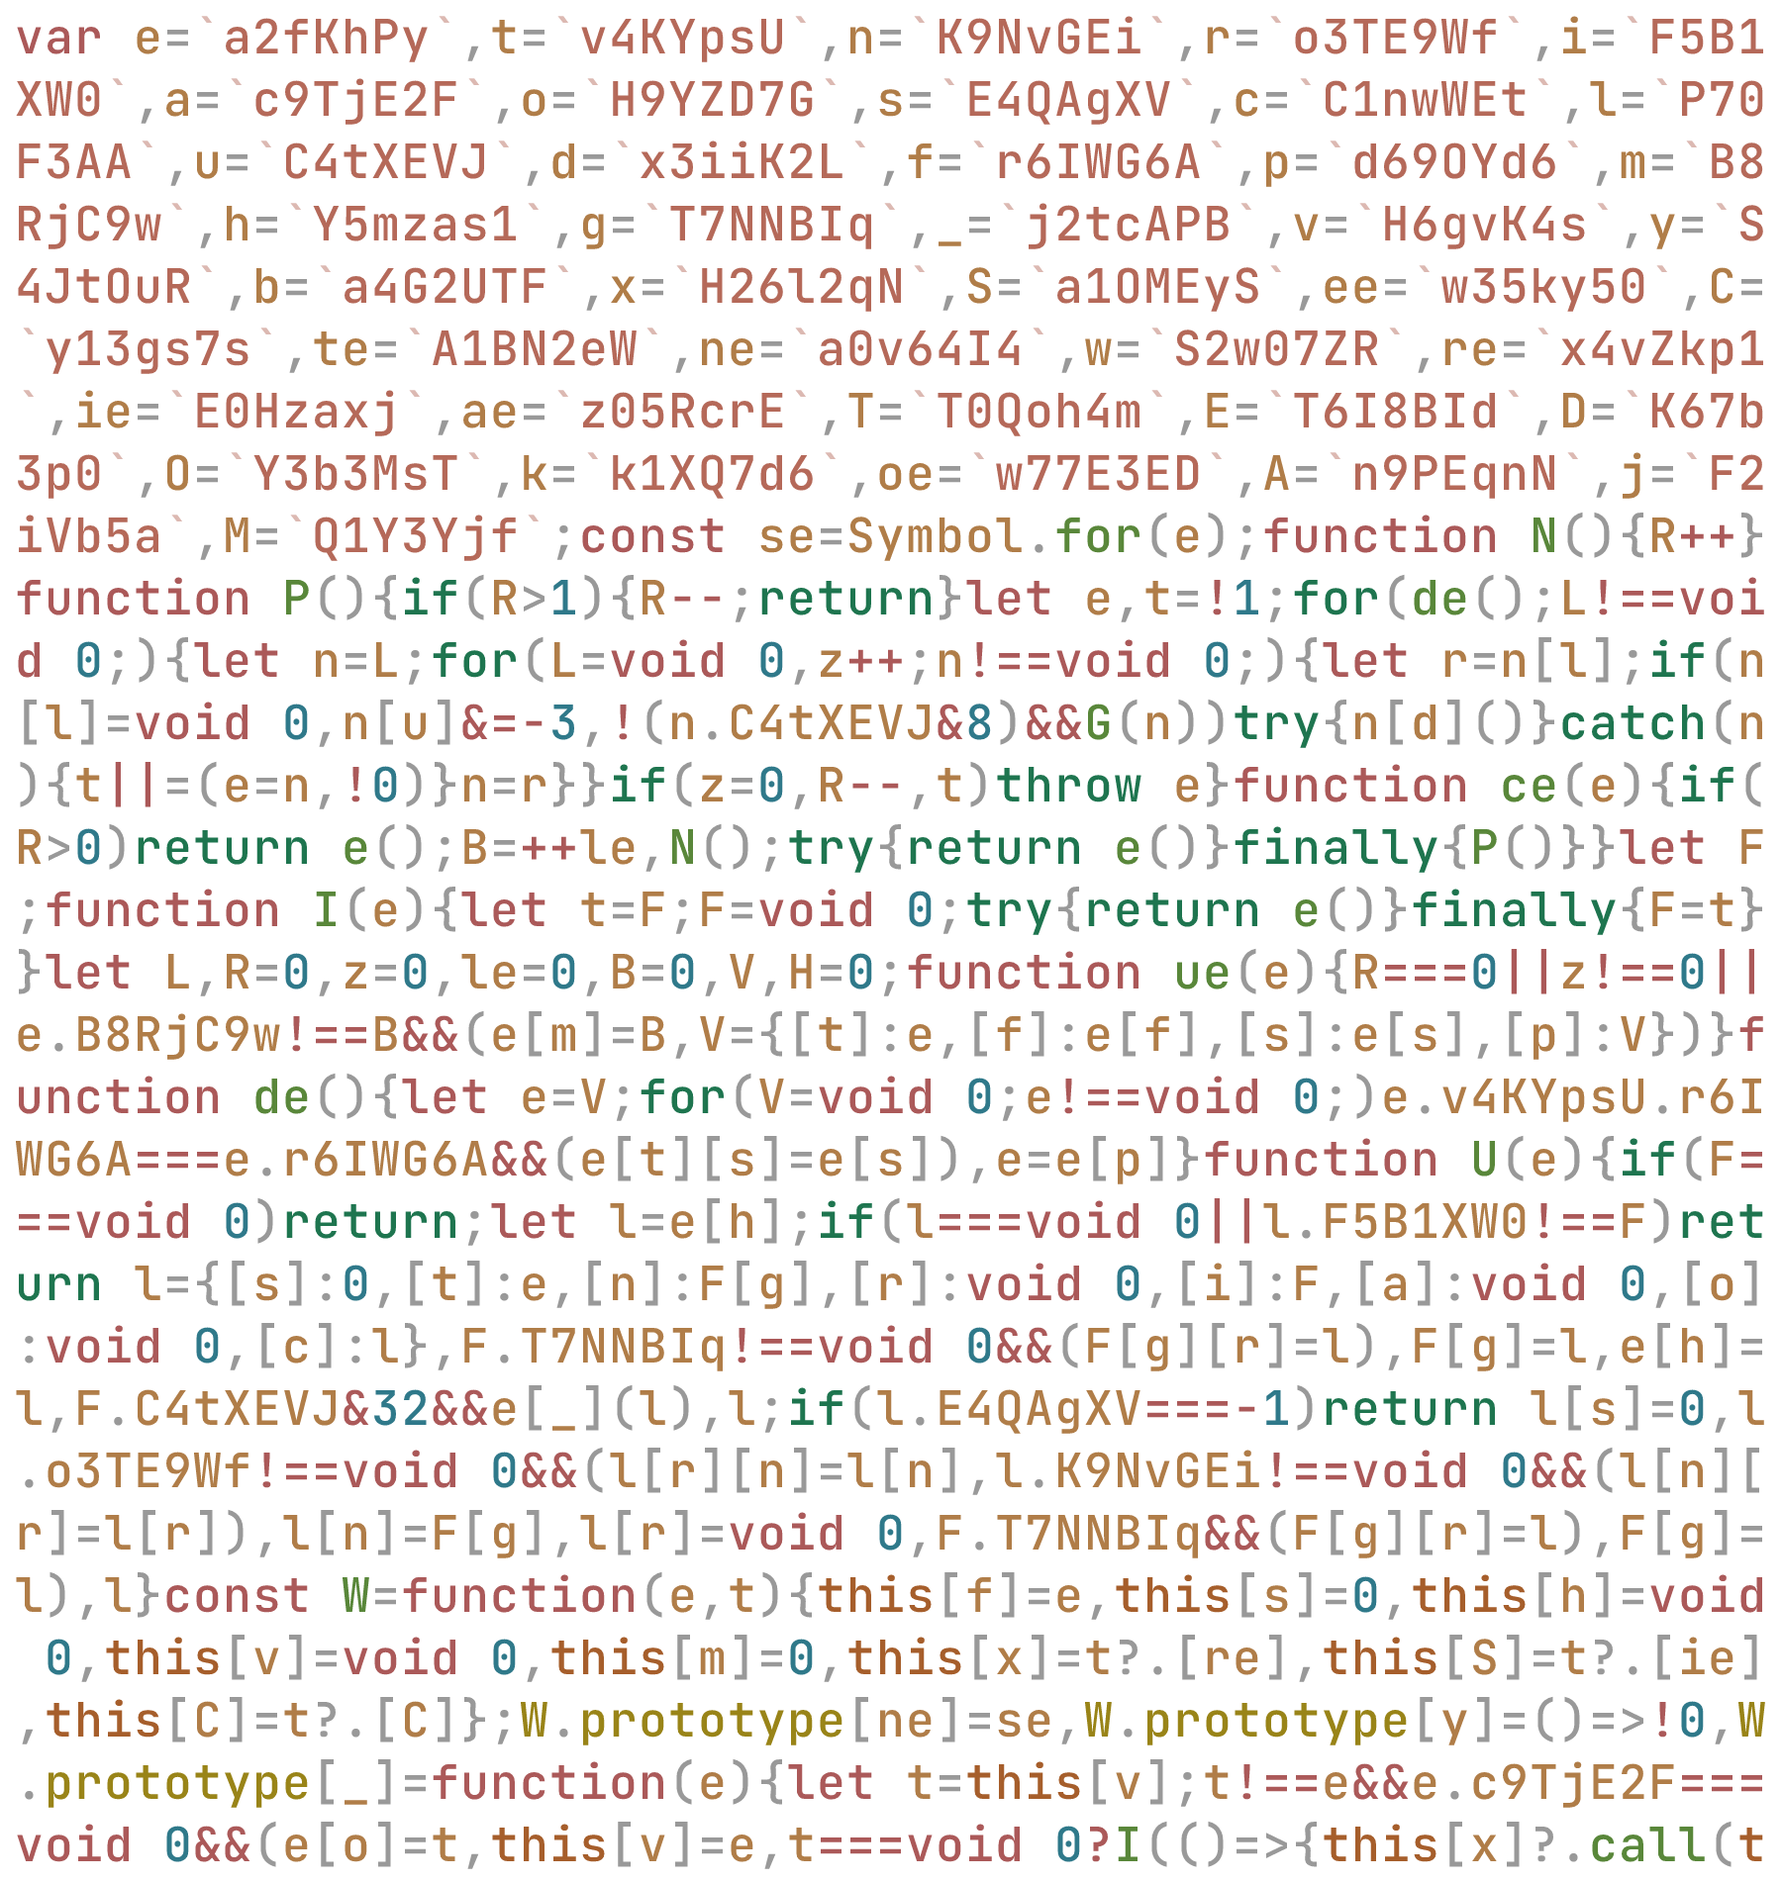
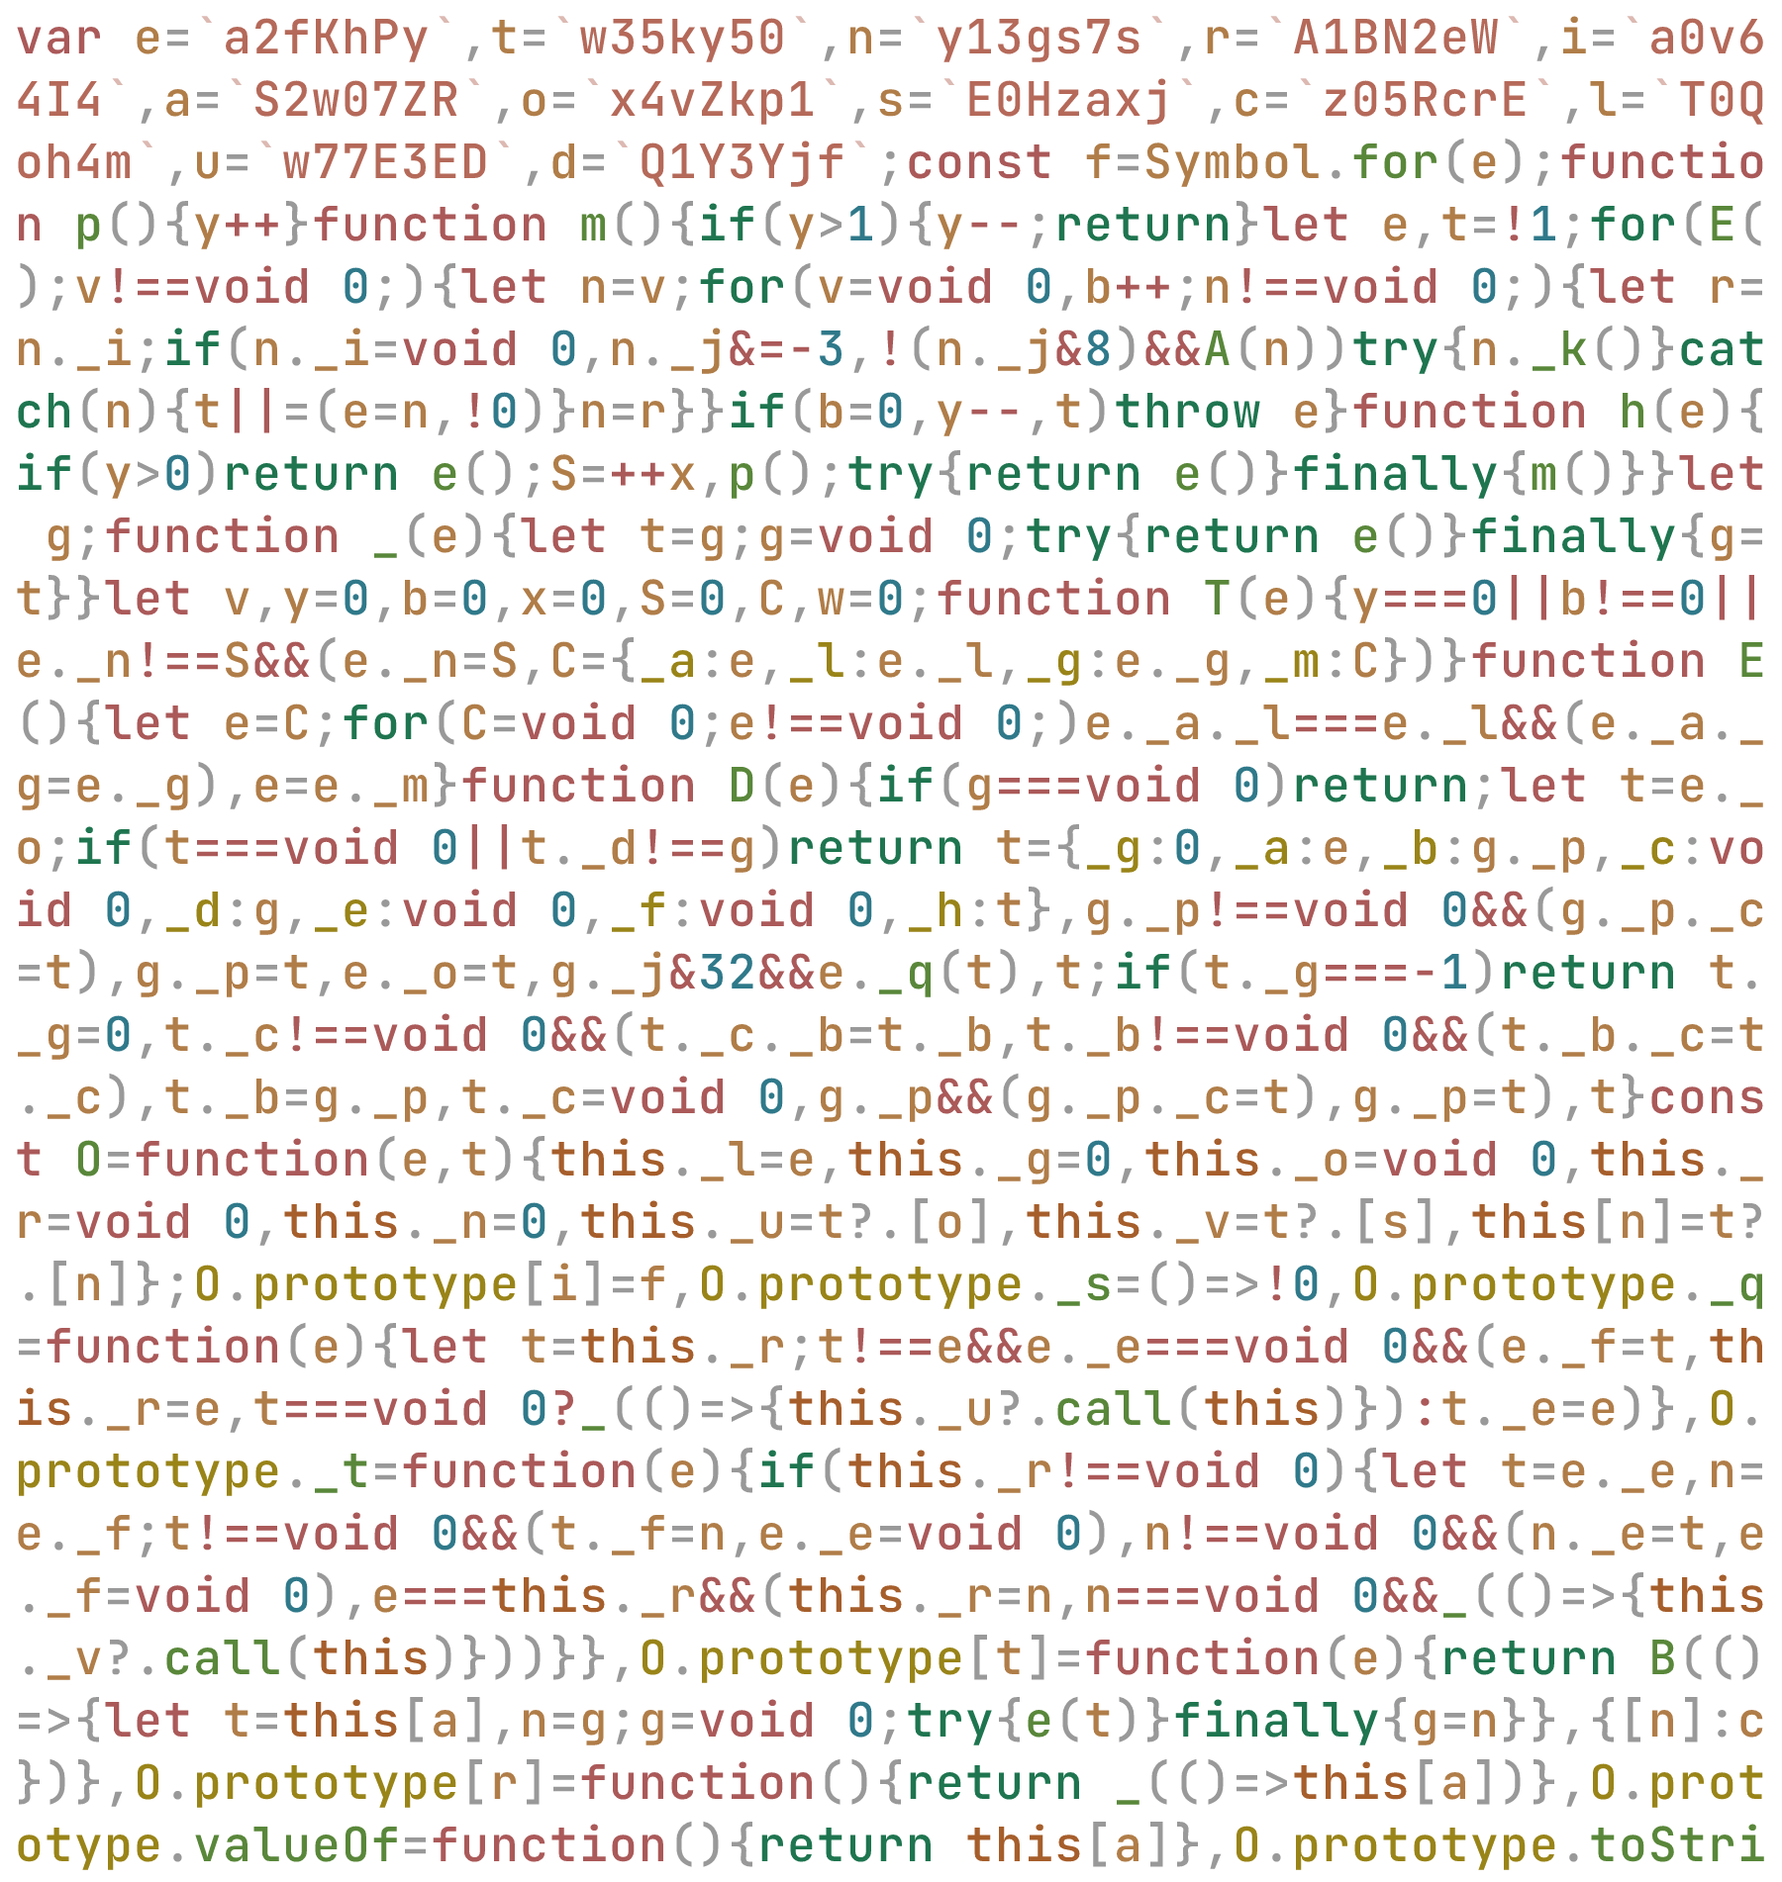
docs: update demo

Changed region(s): [[0.0, 0.0, 0.9956, 0.9926]]

diff --git a/demo/signals/dist_sample/keywordified.min.js b/demo/signals/dist_sample/keywordified.min.js
@@ -1,1 +1,1 @@
-var e=`a2fKhPy`,t=`v4KYpsU`,n=`K9NvGEi`,r=`o3TE9Wf`,i=`F5B1XW0`,a=`c9TjE2F`,o=`H9YZD7G`,s=`E4QAgXV`,c=`C1nwWEt`,l=`P70F3AA`,u=`C4tXEVJ`,d=`x3iiK2L`,f=`r6IWG6A`,p=`d69OYd6`,m=`B8RjC9w`,h=`Y5mzas1`,g=`T7NNBIq`,_=`j2tcAPB`,v=`H6gvK4s`,y=`S4JtOuR`,b=`a4G2UTF`,x=`H26l2qN`,S=`a1OMEyS`,ee=`w35ky50`,C=`y13gs7s`,te=`A1BN2eW`,ne=`a0v64I4`,w=`S2w07ZR`,re=`x4vZkp1`,ie=`E0Hzaxj`,ae=`z05RcrE`,T=`T0Qoh4m`,E=`T6I8BId`,D=`K67b3p0`,O=`Y3b3MsT`,k=`k1XQ7d6`,oe=`w77E3ED`,A=`n9PEqnN`,j=`F2iVb5a`,M=`Q1Y3Yjf`;const se=Symbol.for(e);function N(){R++}function P(){if(R>1){R--;return}let e,t=!1;for(de();L!==void 0;){let n=L;for(L=void 0,z++;n!==void 0;){let r=n[l];if(n[l]=void 0,n[u]&=-3,!(n.C4tXEVJ&8)&&G(n))try{n[d]()}catch(n){t||=(e=n,!0)}n=r}}if(z=0,R--,t)throw e}function ce(e){if(R>0)return e();B=++le,N();try{return e()}finally{P()}}let F;function I(e){let t=F;F=void 0;try{return e()}finally{F=t}}let L,R=0,z=0,le=0,B=0,V,H=0;function ue(e){R===0||z!==0||e.B8RjC9w!==B&&(e[m]=B,V={[t]:e,[f]:e[f],[s]:e[s],[p]:V})}function de(){let e=V;for(V=void 0;e!==void 0;)e.v4KYpsU.r6IWG6A===e.r6IWG6A&&(e[t][s]=e[s]),e=e[p]}function U(e){if(F===void 0)return;let l=e[h];if(l===void 0||l.F5B1XW0!==F)return l={[s]:0,[t]:e,[n]:F[g],[r]:void 0,[i]:F,[a]:void 0,[o]:void 0,[c]:l},F.T7NNBIq!==void 0&&(F[g][r]=l),F[g]=l,e[h]=l,F.C4tXEVJ&32&&e[_](l),l;if(l.E4QAgXV===-1)return l[s]=0,l.o3TE9Wf!==void 0&&(l[r][n]=l[n],l.K9NvGEi!==void 0&&(l[n][r]=l[r]),l[n]=F[g],l[r]=void 0,F.T7NNBIq&&(F[g][r]=l),F[g]=l),l}const W=function(e,t){this[f]=e,this[s]=0,this[h]=void 0,this[v]=void 0,this[m]=0,this[x]=t?.[re],this[S]=t?.[ie],this[C]=t?.[C]};W.prototype[ne]=se,W.prototype[y]=()=>!0,W.prototype[_]=function(e){let t=this[v];t!==e&&e.c9TjE2F===void 0&&(e[o]=t,this[v]=e,t===void 0?I(()=>{this[x]?.call(this)}):t[a]=e)},W.prototype[b]=function(e){if(this.H6gvK4s!==void 0){let t=e[a],n=e[o];t!==void 0&&(t[o]=n,e[a]=void 0),n!==void 0&&(n[a]=t,e[o]=void 0),e===this.H6gvK4s&&(this[v]=n,n===void 0&&I(()=>{this[S]?.call(this)}))}},W.prototype[ee]=function(e){return he(()=>{let t=this[w],n=F;F=void 0;try{e(t)}finally{F=n}},{[C]:ae})},W.prototype[te]=function(){return I(()=>this[w])},W.prototype.valueOf=function(){return this[w]},W.prototype.toString=function(){return this[w]+``},W.prototype.toJSON=function(){return this[w]},Object.defineProperty(W.prototype,w,{get(){let e=U(this);return e!==void 0&&(e[s]=this[s]),this[f]},set(e){if(e!==this.r6IWG6A){if(z>100)throw Error(T);ue(this),this[f]=e,this[s]++,H++,N();try{for(let e=this[v];e!==void 0;e=e[o])e[i][E]()}finally{P()}}}});function fe(e,t){return new W(e,t)}function G(e){for(let t=e[g];t!==void 0;t=t[r])if(t.v4KYpsU.E4QAgXV!==t.E4QAgXV||!t.v4KYpsU.S4JtOuR()||t.v4KYpsU.E4QAgXV!==t.E4QAgXV)return!0;return!1}function K(e){for(let n=e[g];n!==void 0;n=n[r]){let r=n[t][h];if(r!==void 0&&(n[c]=r),n[t][h]=n,n[s]=-1,n.o3TE9Wf===void 0){e[g]=n;break}}}function q(e){let i=e[g],a;for(;i!==void 0;){let e=i[n];i.E4QAgXV===-1?(i[t][b](i),e!==void 0&&(e[r]=i[r]),i.o3TE9Wf!==void 0&&(i[r][n]=e)):a=i,i[t][h]=i[c],i.C1nwWEt!==void 0&&(i[c]=void 0),i=e}e[g]=a}const J=function(e,t){W.call(this,void 0),this[D]=e,this[g]=void 0,this[O]=H-1,this[u]=4,this[x]=t?.[re],this[S]=t?.[ie],this[C]=t?.[C]};J.prototype=new W,J.prototype[y]=function(){if(this[u]&=-3,this.C4tXEVJ&1)return!1;if((this.C4tXEVJ&36)==32||(this[u]&=-5,this.Y3b3MsT===H))return!0;if(this[O]=H,this[u]|=1,this.E4QAgXV>0&&!G(this))return this[u]&=-2,!0;let e=F;try{K(this),F=this;let e=this[D]();(this.C4tXEVJ&16||this.r6IWG6A!==e||this.E4QAgXV===0)&&(this[f]=e,this[u]&=-17,this[s]++)}catch(e){this[f]=e,this[u]|=16,this[s]++}return F=e,q(this),this[u]&=-2,!0},J.prototype[_]=function(e){if(this.H6gvK4s===void 0){this[u]|=36;for(let e=this[g];e!==void 0;e=e[r])e[t][_](e)}W.prototype[_].call(this,e)},J.prototype[b]=function(e){if(this.H6gvK4s!==void 0&&(W.prototype[b].call(this,e),this.H6gvK4s===void 0)){this[u]&=-33;for(let e=this[g];e!==void 0;e=e[r])e[t][b](e)}},J.prototype[E]=function(){if(!(this.C4tXEVJ&2)){this[u]|=6;for(let e=this[v];e!==void 0;e=e[o])e[i][E]()}},Object.defineProperty(J.prototype,w,{get(){if(this.C4tXEVJ&1)throw Error(T);let e=U(this);if(this[y](),e!==void 0&&(e[s]=this[s]),this.C4tXEVJ&16)throw this[f];return this[f]}});function pe(e,t){return new J(e,t)}function Y(e){let t=e[k];if(e[k]=void 0,typeof t==`function`){N();let n=F;F=void 0;try{t()}catch(t){throw e[u]&=-2,e[u]|=8,X(e),t}finally{F=n,P()}}}function X(e){for(let n=e[g];n!==void 0;n=n[r])n[t][b](n);e[D]=void 0,e[g]=void 0,Y(e)}function me(e){if(F!==this)throw Error(oe);q(this),F=e,this[u]&=-2,this.C4tXEVJ&8&&X(this),P()}let Z;const Q=function(e,t){this[D]=e,this[k]=void 0,this[g]=void 0,this[l]=void 0,this[u]=32,this[C]=t?.[C],Z&&Z.push(this)};Q.prototype[d]=function(){let e=this[A]();try{if(this.C4tXEVJ&8||this.K67b3p0===void 0)return;let e=this[D]();typeof e==`function`&&(this[k]=e)}finally{e()}},Q.prototype[A]=function(){if(this.C4tXEVJ&1)throw Error(T);this[u]|=1,this[u]&=-9,Y(this),K(this),N();let e=F;return F=this,me.bind(this,e)},Q.prototype[E]=function(){this.C4tXEVJ&2||(this[u]|=2,this[l]=L,L=this)},Q.prototype[j]=function(){this[u]|=8,this.C4tXEVJ&1||X(this)},Q.prototype[M]=function(){this[j]()};function he(e,t){let n=new Q(e,t);try{n[d]()}catch(e){throw n[j](),e}let r=n[j].bind(n);return Object.assign(r,{[Symbol.dispose]:r}),r}function $(e){return function(...t){return ce(()=>I(()=>e.apply(this,t)))}}function ge(){let e=Z;return Z=[],function(){let t=Z;return Z&&e&&(e=e.concat(Z)),Z=e,t}}const _e=e=>{let t=Reflect.ownKeys(e);for(let n=0;n<t.length;n++){let r=t[n],i=e[r];typeof i==`function`?e[r]=$(i):typeof i==`object`&&i&&!(`a0v64I4`in i)&&_e(i)}};function ve(e){return function(...t){let n,r,i=ge();try{r=e(...t)}catch(e){throw Z=void 0,e}finally{n=i()}return _e(r),r[Symbol.dispose]=$(function(){let e=n;if(e)for(let t=0;t<e.length;t++)e[t]?.[M]();n=void 0}),r}}export{J as Computed,Q as Effect,W as Signal,$ as action,ce as batch,pe as computed,ve as createModel,he as effect,fe as signal,I as untracked};
+var e=`a2fKhPy`,t=`w35ky50`,n=`y13gs7s`,r=`A1BN2eW`,i=`a0v64I4`,a=`S2w07ZR`,o=`x4vZkp1`,s=`E0Hzaxj`,c=`z05RcrE`,l=`T0Qoh4m`,u=`w77E3ED`,d=`Q1Y3Yjf`;const f=Symbol.for(e);function p(){y++}function m(){if(y>1){y--;return}let e,t=!1;for(E();v!==void 0;){let n=v;for(v=void 0,b++;n!==void 0;){let r=n._i;if(n._i=void 0,n._j&=-3,!(n._j&8)&&A(n))try{n._k()}catch(n){t||=(e=n,!0)}n=r}}if(b=0,y--,t)throw e}function h(e){if(y>0)return e();S=++x,p();try{return e()}finally{m()}}let g;function _(e){let t=g;g=void 0;try{return e()}finally{g=t}}let v,y=0,b=0,x=0,S=0,C,w=0;function T(e){y===0||b!==0||e._n!==S&&(e._n=S,C={_a:e,_l:e._l,_g:e._g,_m:C})}function E(){let e=C;for(C=void 0;e!==void 0;)e._a._l===e._l&&(e._a._g=e._g),e=e._m}function D(e){if(g===void 0)return;let t=e._o;if(t===void 0||t._d!==g)return t={_g:0,_a:e,_b:g._p,_c:void 0,_d:g,_e:void 0,_f:void 0,_h:t},g._p!==void 0&&(g._p._c=t),g._p=t,e._o=t,g._j&32&&e._q(t),t;if(t._g===-1)return t._g=0,t._c!==void 0&&(t._c._b=t._b,t._b!==void 0&&(t._b._c=t._c),t._b=g._p,t._c=void 0,g._p&&(g._p._c=t),g._p=t),t}const O=function(e,t){this._l=e,this._g=0,this._o=void 0,this._r=void 0,this._n=0,this._u=t?.[o],this._v=t?.[s],this[n]=t?.[n]};O.prototype[i]=f,O.prototype._s=()=>!0,O.prototype._q=function(e){let t=this._r;t!==e&&e._e===void 0&&(e._f=t,this._r=e,t===void 0?_(()=>{this._u?.call(this)}):t._e=e)},O.prototype._t=function(e){if(this._r!==void 0){let t=e._e,n=e._f;t!==void 0&&(t._f=n,e._e=void 0),n!==void 0&&(n._e=t,e._f=void 0),e===this._r&&(this._r=n,n===void 0&&_(()=>{this._v?.call(this)}))}},O.prototype[t]=function(e){return B(()=>{let t=this[a],n=g;g=void 0;try{e(t)}finally{g=n}},{[n]:c})},O.prototype[r]=function(){return _(()=>this[a])},O.prototype.valueOf=function(){return this[a]},O.prototype.toString=function(){return this[a]+``},O.prototype.toJSON=function(){return this[a]},Object.defineProperty(O.prototype,a,{get(){let e=D(this);return e!==void 0&&(e._g=this._g),this._l},set(e){if(e!==this._l){if(b>100)throw Error(l);T(this),this._l=e,this._g++,w++,p();try{for(let e=this._r;e!==void 0;e=e._f)e._d._w()}finally{m()}}}});function k(e,t){return new O(e,t)}function A(e){for(let t=e._p;t!==void 0;t=t._c)if(t._a._g!==t._g||!t._a._s()||t._a._g!==t._g)return!0;return!1}function j(e){for(let t=e._p;t!==void 0;t=t._c){let n=t._a._o;if(n!==void 0&&(t._h=n),t._a._o=t,t._g=-1,t._c===void 0){e._p=t;break}}}function M(e){let t=e._p,n;for(;t!==void 0;){let e=t._b;t._g===-1?(t._a._t(t),e!==void 0&&(e._c=t._c),t._c!==void 0&&(t._c._b=e)):n=t,t._a._o=t._h,t._h!==void 0&&(t._h=void 0),t=e}e._p=n}const N=function(e,t){O.call(this,void 0),this._x=e,this._p=void 0,this._y=w-1,this._j=4,this._u=t?.[o],this._v=t?.[s],this[n]=t?.[n]};N.prototype=new O,N.prototype._s=function(){if(this._j&=-3,this._j&1)return!1;if((this._j&36)==32||(this._j&=-5,this._y===w))return!0;if(this._y=w,this._j|=1,this._g>0&&!A(this))return this._j&=-2,!0;let e=g;try{j(this),g=this;let e=this._x();(this._j&16||this._l!==e||this._g===0)&&(this._l=e,this._j&=-17,this._g++)}catch(e){this._l=e,this._j|=16,this._g++}return g=e,M(this),this._j&=-2,!0},N.prototype._q=function(e){if(this._r===void 0){this._j|=36;for(let e=this._p;e!==void 0;e=e._c)e._a._q(e)}O.prototype._q.call(this,e)},N.prototype._t=function(e){if(this._r!==void 0&&(O.prototype._t.call(this,e),this._r===void 0)){this._j&=-33;for(let e=this._p;e!==void 0;e=e._c)e._a._t(e)}},N.prototype._w=function(){if(!(this._j&2)){this._j|=6;for(let e=this._r;e!==void 0;e=e._f)e._d._w()}},Object.defineProperty(N.prototype,a,{get(){if(this._j&1)throw Error(l);let e=D(this);if(this._s(),e!==void 0&&(e._g=this._g),this._j&16)throw this._l;return this._l}});function P(e,t){return new N(e,t)}function F(e){let t=e._z;if(e._z=void 0,typeof t==`function`){p();let n=g;g=void 0;try{t()}catch(t){throw e._j&=-2,e._j|=8,I(e),t}finally{g=n,m()}}}function I(e){for(let t=e._p;t!==void 0;t=t._c)t._a._t(t);e._x=void 0,e._p=void 0,F(e)}function L(e){if(g!==this)throw Error(u);M(this),g=e,this._j&=-2,this._j&8&&I(this),m()}let R;const z=function(e,t){this._x=e,this._z=void 0,this._p=void 0,this._i=void 0,this._j=32,this[n]=t?.[n],R&&R.push(this)};z.prototype._k=function(){let e=this._B();try{if(this._j&8||this._x===void 0)return;let e=this._x();typeof e==`function`&&(this._z=e)}finally{e()}},z.prototype._B=function(){if(this._j&1)throw Error(l);this._j|=1,this._j&=-9,F(this),j(this),p();let e=g;return g=this,L.bind(this,e)},z.prototype._w=function(){this._j&2||(this._j|=2,this._i=v,v=this)},z.prototype._C=function(){this._j|=8,this._j&1||I(this)},z.prototype[d]=function(){this._C()};function B(e,t){let n=new z(e,t);try{n._k()}catch(e){throw n._C(),e}let r=n._C.bind(n);return Object.assign(r,{[Symbol.dispose]:r}),r}function V(e){return function(...t){return h(()=>_(()=>e.apply(this,t)))}}function H(){let e=R;return R=[],function(){let t=R;return R&&e&&(e=e.concat(R)),R=e,t}}const U=e=>{let t=Reflect.ownKeys(e);for(let n=0;n<t.length;n++){let r=t[n],i=e[r];typeof i==`function`?e[r]=V(i):typeof i==`object`&&i&&!(`a0v64I4`in i)&&U(i)}};function W(e){return function(...t){let n,r,i=H();try{r=e(...t)}catch(e){throw R=void 0,e}finally{n=i()}return U(r),r[Symbol.dispose]=V(function(){let e=n;if(e)for(let t=0;t<e.length;t++)e[t]?.[d]();n=void 0}),r}}export{N as Computed,z as Effect,O as Signal,V as action,h as batch,P as computed,W as createModel,B as effect,k as signal,_ as untracked};

diff --git a/README.md b/README.md
@@ -22,9 +22,9 @@ A side-by-side comparison of the minified production bundles:
 | [Unmodified](https://github.com/cueaz/unplugin-keywords/blob/main/demo/signals/src/original.ts) (Standard Minification) | [Keywordified](https://github.com/cueaz/unplugin-keywords/blob/main/demo/signals/src/keywordified.ts) (Literal Obfuscation) |
 |:---:|:---:|
 | <picture><source media="(prefers-color-scheme: light)" srcset="https://raw.githubusercontent.com/cueaz/unplugin-keywords/refs/heads/main/demo/signals/dist_sample/original.min.js.light.png" width="400"><img src="https://raw.githubusercontent.com/cueaz/unplugin-keywords/refs/heads/main/demo/signals/dist_sample/original.min.js.dark.png" width="400" alt="Original"></picture> | <picture><source media="(prefers-color-scheme: light)" srcset="https://raw.githubusercontent.com/cueaz/unplugin-keywords/refs/heads/main/demo/signals/dist_sample/keywordified.min.js.light.png" width="400"><img src="https://raw.githubusercontent.com/cueaz/unplugin-keywords/refs/heads/main/demo/signals/dist_sample/keywordified.min.js.dark.png" width="400" alt="Keywordified"></picture> |
-| 6.86 kB │ gzip: **2.09 kB** | **6.02 kB** │ gzip: 2.42 kB |
+| 6.86 kB │ gzip: **2.09 kB** | **5.40 kB** │ gzip: 2.03 kB |
 
-*While the uncompressed bundle is 12.2% smaller, the gzipped output is 15.8% larger because high-entropy base62 hashes reduce the repetitive structural redundancy that compression algorithms rely on.*
+*While the uncompressed bundle is 21.3% smaller, the gzipped output is only 2.9% smaller because high-entropy base62 hashes reduce the repetitive structural redundancy that compression algorithms rely on.*
 
 *For more information, see the [demo documentation](https://github.com/cueaz/unplugin-keywords/blob/main/demo/signals/README.md).*
 

diff --git a/demo/signals/README.md b/demo/signals/README.md
@@ -24,9 +24,9 @@ Compilation via `tsdown` confirms the uncompressed byte reduction and the expect
 $ NO_IMAGE=1 pnpm build --no-color
   ...
   ℹ dist/original.min.js      6.86 kB │ gzip: 2.09 kB
-  ℹ dist/keywordified.min.js  6.02 kB │ gzip: 2.42 kB
-  ℹ 2 files, total: 12.88 kB
-  ✔ Build complete in 235ms
+  ℹ dist/keywordified.min.js  5.40 kB │ gzip: 2.03 kB
+  ℹ 2 files, total: 12.25 kB
+  ✔ Build complete in 324ms
 ```
 
 ### 2. Behavioral Equivalence
@@ -37,8 +37,8 @@ $ pnpm test --no-color
   ...
   Test Files  4 passed (4)
        Tests  632 passed (632)
-    Start at  22:10:03
-    Duration  820ms (transform 1.80s, setup 0ms, import 1.95s, tests 203ms, environment 0ms)
+    Start at  16:21:53
+    Duration  2.06s (transform 2.71s, setup 0ms, import 3.16s, tests 269ms, environment 0ms)
 ```
 
 ## License Notice
